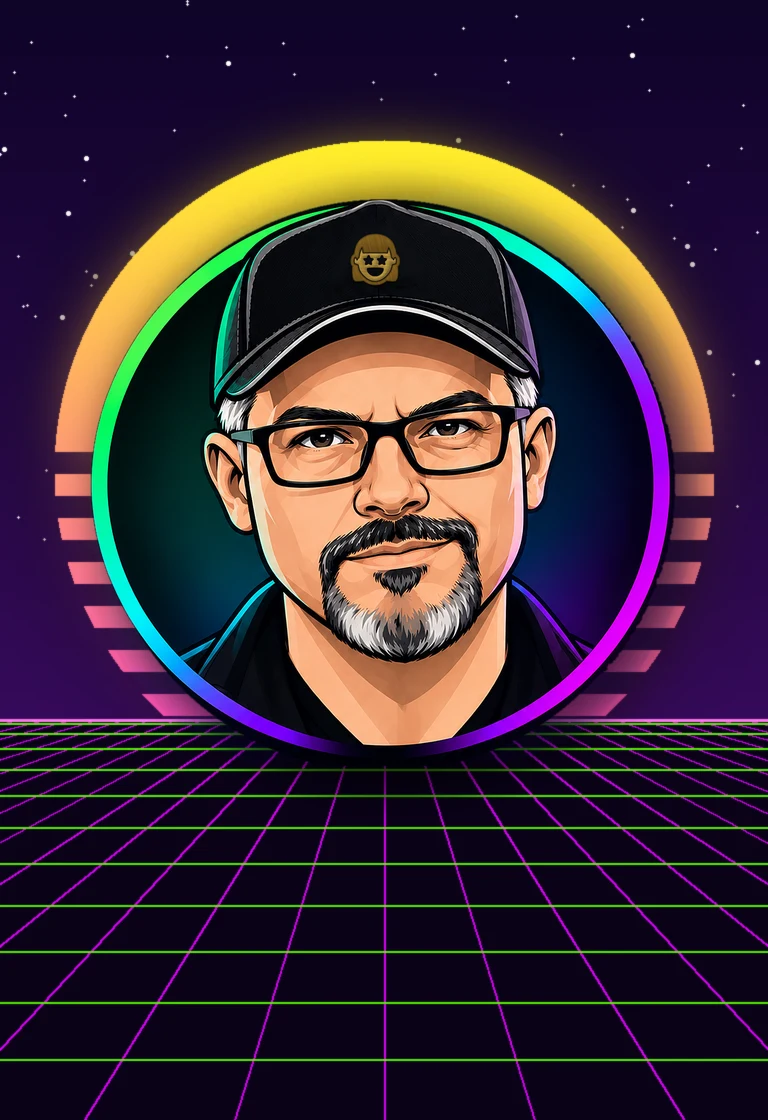
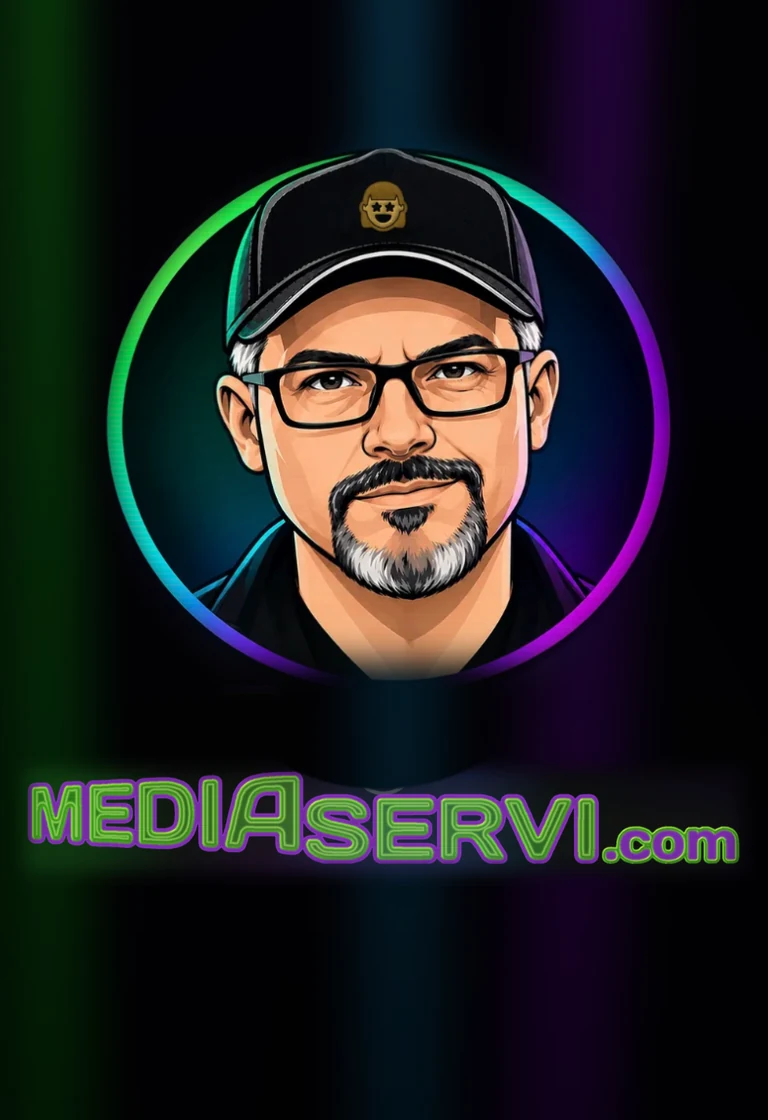
v12.35 · El cartucho enseña su variante y la carátula de MEDIASERVI lleva el material de Josep

diff --git a/index.html b/index.html
@@ -3619,7 +3619,7 @@ html:not([data-app=msgame]) #dashTab5{display:none!important}
       if (pipOn) { isPipMinimized = false; document.getElementById('pipCanvasBox').style.display = 'block'; }
     }
 
-    const APP_VERSION = '12.34';
+    const APP_VERSION = '12.35';
     const APP_HOME = ES_MSG ? URL_MSGAME : URL_VJSHOW;
     function initCredits() { try { document.getElementById('plateVer').textContent = APP_VERSION; } catch (e) {}
       pintaCreditos(); if (window.AVCREDITO) window.AVCREDITO.alCambiar(pintaCreditos);
@@ -8144,8 +8144,8 @@ html:not([data-app=msgame]) #dashTab5{display:none!important}
         ['shoot', 'shScene', 'western', 'shoot_western'], ['shoot', 'shScene', 'galaxy', 'shoot_galaxy'], ['shoot', 'shScene', 'zombieland', 'shoot_zombieland'], ['shoot', 'shScene', 'haunted', 'shoot_haunted'], ['shoot', 'shScene', 'alpine', 'shoot_alpine'], ['shoot', 'shScene', 'warfront', 'shoot_warfront'],
         ['race', 'rcVeh', 'runner', 'racer_runner'], ['race', 'rcVeh', 'dirty', 'racer_dirty'], ['paint'], ['wheel', null, null, 'fortuna'], ['bowl'], ['duck'], ['hoop', 'hpMode', 'ballhop'], ['hoop', 'hpMode', 'basket'], ['walk'], ['golf'], ['osaka'], ['mservi', null, null, 'enlace_mediaservi'], ['avhubw', null, null, 'enlace_avhub']]   /* v11.5 · dos cartuchos nuevos, todavía en borrador · v12.33 · y dos carátulas que parecen juegos pero abren una web */
         .map(([g, sel, val, img], i) => ({ i, g, sel, val, img, sub: val ? val.toUpperCase() : '' }));
-      const WEB = { mservi: ['https://mediaservi.com/', 'ESTUDIO AUDIOVISUAL'], avhubw: ['https://avhub.mediaservi.com/', 'TOOLS FOR PROFESSIONALS'] };
-      CV.forEach(c => { if (WEB[c.g]) { c.url = WEB[c.g][0]; c.sub = WEB[c.g][1]; } });
+      const WEB = { mservi: ['https://mediaservi.com/', 'ESTUDIO AUDIOVISUAL', 1], avhubw: ['https://avhub.mediaservi.com/', 'TOOLS FOR PROFESSIONALS'] };   /* v12.35 · la de mediaservi es tu material (cara y rótulo de neón MEDIASERVI.com): sin título pintado encima */
+      CV.forEach(c => { if (WEB[c.g]) { c.url = WEB[c.g][0]; c.sub = WEB[c.g][1]; c.solo = !!WEB[c.g][2]; } });
       const FIRST = {}; CV.forEach(c => { if (!(c.g in FIRST)) FIRST[c.g] = c.i; });
       let T = null, R = null, S = null, CAM = null, raf = 0, on = false, built = false, lastT = 0, frameN = 0;
       const ST = { seq: null, hover: -1, crt: false, mx: 0, my: 0, home: null, inserted: null, arts: [], thumbs: [] };
@@ -8581,14 +8581,14 @@ html:not([data-app=msgame]) #dashTab5{display:none!important}
             const P = CanvasRenderingContext2D.prototype; ['shadowBlur', 'shadowOffsetX', 'shadowOffsetY'].forEach(k => { const d = Object.getOwnPropertyDescriptor(P, k); Object.defineProperty(x, k, { set: v => d.set.call(x, v * K), get: () => d.get.call(x) / K }); });
             const f = Object.getOwnPropertyDescriptor(P, 'filter'); if (f) Object.defineProperty(x, 'filter', { set: v => f.set.call(x, String(v).replace(/(-?[\d.]+)px/g, (m, n) => n * K + 'px')), get: () => f.get.call(x) });
             x.scale(K, K); } x.fillStyle = '#140a26'; x.fillRect(0, 0, W, H); x.save(); x.beginPath(); x.rect(0, TOP, W, H - TOP); x.clip();
-          if (c.img && R.art) fondoFoto(x, R.art, vf, c); else if (ESC[c.g]) { try { ESC[c.g](x, vf, R, c); } catch (e) { console.error(e); } } x.restore();
+          if (c.img && R.art) { if (c.solo) vivo(x, R.art); else fondoFoto(x, R.art, vf, c); } else if (ESC[c.g]) { try { ESC[c.g](x, vf, R, c); } catch (e) { console.error(e); } } x.restore();
           if (vt === 'J' && R.figs && R.figs[c.val]) { const im = R.figs[c.val], S = c.val === 'dirty' ? 300 : 262, Y = c.val === 'dirty' ? TOP + 262 : TOP + 250; x.save(); x.beginPath(); x.rect(0, TOP + 7, W, H - TOP - 7); x.clip(); x.shadowColor = c.val === 'dirty' ? 'rgba(255,200,120,.75)' : 'rgba(59,243,255,.85)'; x.shadowBlur = 22; x.drawImage(im, W / 2 - S / 2, Y - S, S, S); x.shadowBlur = 0; x.drawImage(im, W / 2 - S / 2, Y - S, S, S); x.restore(); }
           x.save(); x.beginPath(); x.rect(0, TOP + 7, W, H - TOP - 7); x.clip();
           if (vt === 'D') armas(x, W / 2 + 8, TOP + (H - TOP) * .49, 214);
           else if (vt === 'G') { const bx = W * .7, by = H * .425; x.save(); x.translate(bx, by); x.rotate(.1); estallido(x, 0, 0, 62, '#ffd23f', '#e02929', 11); x.restore(); logo(x, '¡BANG!', bx, by + 12, { f: 'Bangers', s: 36, c: '#12091f', rot: -.1, brillo: 0 }); mira(x, bx - 50, by + 46, 30, '#ff4a3a'); mira(x, W * .3, H * .53, 56, '#8dff3a'); }
           else if (vt === 'K') ruleta(x, W / 2, TOP + 290, 102);
           x.restore();
-          cabecera(x, c, R); x.save(); x.beginPath(); x.rect(0, TOP + 7, W, H - TOP - 7); x.clip(); titulo(x, c, vt); x.restore(); pie(x, c); return cv; }
+          cabecera(x, c, R); if (!c.solo) { x.save(); x.beginPath(); x.rect(0, TOP + 7, W, H - TOP - 7); x.clip(); titulo(x, c, vt); x.restore(); } pie(x, c); return cv; }
         /* v11.3 · el rótulo de la carátula solo (título y variante, con su letra y sus colores, sobre transparente): para que el menú del juego lleve EL MISMO logo que la caja.
            Se pinta con el mismo código que la carátula, sin los velos oscuros de fondo (que son rectángulos). Devuelve una o dos piezas recortadas: [título] o [título, variante]. */
         function rotulo(c, vt) { const [cv, x] = mk(W, H), fr = x.fillRect; x.fillRect = () => {}; try { titulo(x, c, vt); } finally { x.fillRect = fr; }
@@ -8668,7 +8668,7 @@ html:not([data-app=msgame]) #dashTab5{display:none!important}
           x.fillStyle = '#2a2236'; x.textAlign = 'center'; x.font = '700 17px "Barlow Semi Condensed",Arial,sans-serif'; x.fillText(TT('Manual de instrucciones').toUpperCase(), w / 2, 102); x.fillStyle = 'rgba(42,34,54,.32)'; for (let i = 0; i < 12; i++) x.fillRect(28, 128 + i * 18, (w - 56) * (.5 + rnd() * .5), 6);
           x.strokeStyle = '#120a1c'; x.lineWidth = 6; x.strokeRect(3, 3, w - 6, h - 6); }, 256, 372); }
       function cartLabel(c, art) { return decal((x, W, H) => { const col = COL[c.g], g = x.createLinearGradient(0, 0, W, 0); g.addColorStop(0, col.c1); g.addColorStop(1, col.c2); x.fillStyle = '#0d0b14'; x.fillRect(0, 0, W, H);
-          if (art && art.cov) { const sw = art.width, sh = Math.min(art.height * .9, sw * (H - 52) / W); x.drawImage(art, 0, art.height * .1, sw, sh, 0, 52, W, H - 52); }   /* v12.17 · la pegatina es la carátula del propio juego (antes, para los juegos sin foto salía el dibujo de PALOTERAPIA) */
+          if (art && art.cov) { const sw = art.width, sh = Math.min(art.height * .9, sw * (H - 52) / W), va = c.val && c.sub && !c.url, cy = (c.g === 'hoop' ? (c.val === 'basket' ? .714 : .58) : .89) * art.height, sy = va ? Math.max(0, Math.min(art.height - sh, cy - sh / 2)) : art.height * .1; x.drawImage(art, 0, sy, sw, sh, 0, 52, W, H - 52); }   /* v12.17 · la pegatina es la carátula del propio juego (antes, para los juegos sin foto salía el dibujo de PALOTERAPIA) · v12.35 · con variante, el trozo de la carátula con su nombre (HAUNTED, ALIENS, RUNNER, BALLHOP…): arriba ya pone la saga */
           else if (art) { const k = Math.max(W / art.width, (H - 52) / art.height); x.drawImage(art, (W - art.width * k) / 2, 52 + (H - 52 - art.height * k) / 2, art.width * k, art.height * k); }
           x.fillStyle = g; x.fillRect(0, 0, W, 52); title(x, GN[c.g], W / 2, 40, 34, W - 30, c.g); x.strokeStyle = '#120a1c'; x.lineWidth = 7; x.strokeRect(3, 3, W - 6, H - 6); }, 256, 158); }
       function canCanvas() { return decal((x, w, h) => { const g = x.createLinearGradient(0, 0, 0, h); g.addColorStop(0, '#22c956'); g.addColorStop(.55, '#12a03f'); g.addColorStop(1, '#0a6e2c'); x.fillStyle = g; x.fillRect(0, 0, w, h);   // v8.6 · refresco de lima-limón inventado, «6GO»: impreso alrededor de la lata, no pegado

diff --git a/README.md b/README.md
@@ -5,7 +5,7 @@ Sistema de juegos sencillos y clásicos jugables en una pantalla o en salas inme
 
 🔗 **Juega ahora:** [msgame.mediaservi.com](https://msgame.mediaservi.com)
 
-**Versión actual: v12.34**
+**Versión actual: v12.35**
 
 ## Cómo se juega
 
@@ -34,7 +34,12 @@ Sistema de juegos sencillos y clásicos jugables en una pantalla o en salas inme
 - **WONDERWALK** *(en desarrollo)*: paseo hasta el castillo buscando los objetos de tu lista.
 - **KRAZYGOLF** *(en desarrollo)*: minigolf clásico en 3D o en modo KRAZY.
 
-## Cambios de la versión actual (v12.34)
+## Cambios de la versión actual (v12.35)
+
+- **El cartucho dice qué variante es:** con un juego de saga (PALOTERAPIA, PUNTERÍA, BEAT RACER, ENCESTA), la pegatina del cartucho enseña el nombre de la saga arriba y debajo el trozo de la carátula con el de la variante (HAUNTED, ALIENS, RUNNER, BALLHOP…), en vez de repetir la saga.
+- **Carátula de MEDIASERVI con tu material:** tu cara en el aro de neón y el rótulo MEDIASERVI.com, sobre los haces de luz verdes, azules y morados; como el rótulo ya va en la imagen, no se pinta otro título encima.
+
+### v12.34
 
 - **Rótulos DYMO de verdad en las baldas:** el nombre de cada juego va en una cinta negra con las letras blancas en relieve de la letra Dymo, un poco torcidas como cuando se graban a mano. Las letras van ya dibujadas en `juegos/dymo.webp`; la fuente no está en el repositorio.
 
@@ -532,7 +537,7 @@ Sigue de la v7.3:
 Código abierto bajo la licencia **GNU GPL v3** (ver `LICENSE`): puedes usarlo, modificarlo y distribuirlo, también en eventos comerciales, siempre que las versiones modificadas que distribuyas sigan siendo abiertas con esta misma licencia.
 
 ---
-*MSGAME v12.34 es un proyecto hecho con ⚙ by [mediaservi.com](https://mediaservi.com)*
+*MSGAME v12.35 es un proyecto hecho con ⚙ by [mediaservi.com](https://mediaservi.com)*
 
 ## Aviso
 
